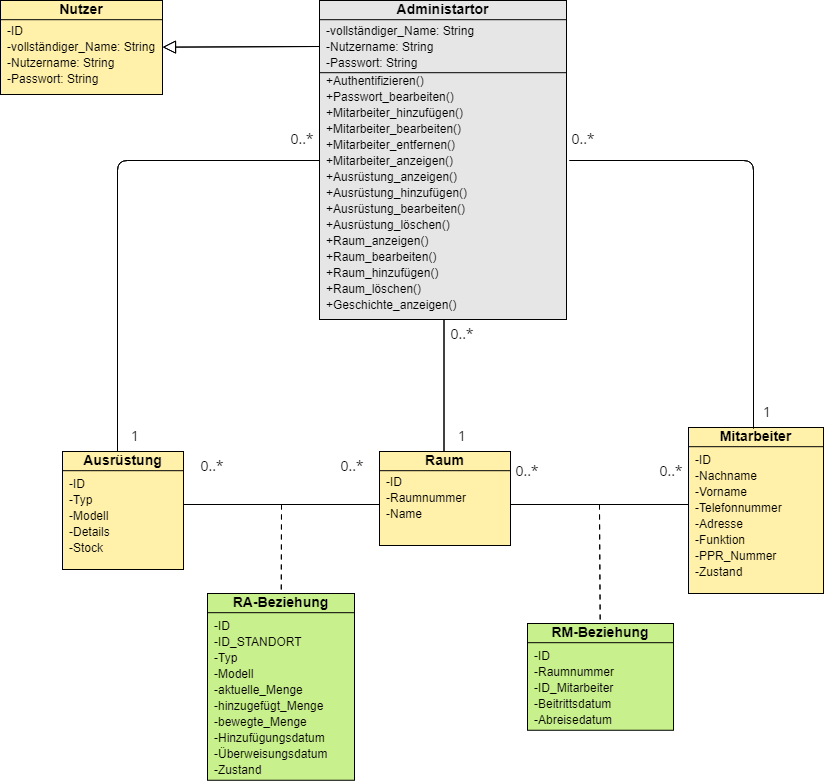
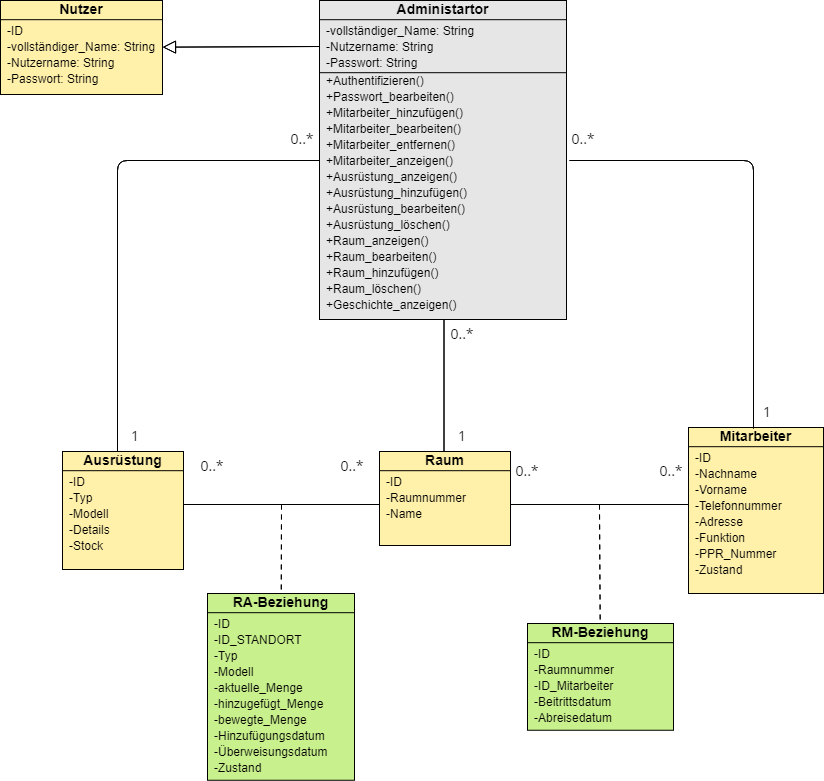
updating assets

diff --git a/projects-details/abschlussprojekt.html b/projects-details/abschlussprojekt.html
@@ -139,11 +139,11 @@
             </div>
             <div class="section">
                 <h3 class="h2">Klassendiagramm des Projekts</h3>
-                <img src="../assets/Abschlussprojekt/Klassendiagram.png">
+                <img src="../assets/Abschlussprojekt/Klassendiagram.svg">
             </div>
             <div class="section">
                 <h3 class="h2">Aktivitätsdiagramm des Projekts</h3>
-                <img src="../assets/Abschlussprojekt/Activity.png">
+                <img src="../assets/Abschlussprojekt/Activity.svg">
             </div>
             <!-- <div class="section">
                 <h3 class="h2">Sequenzdiagramm "Authentifizierung"</h3>

diff --git a/projects-details/praktikumsprojekt.html b/projects-details/praktikumsprojekt.html
@@ -140,7 +140,7 @@
             </div>
             <div class="section">
                 <h3 class="h2">Klassendiagramm des Projekts</h3>
-                <img src="../assets/Praktikumsprojekt/Klassendiagramm.png" alt="Class Diagram">
+                <img src="../assets/Praktikumsprojekt/Klassendiagramm.svg" alt="Class Diagram">
             </div>
             <div class="section">
                 <h3 class="h2">Die Hauptseiten der Anwendung</h3>
